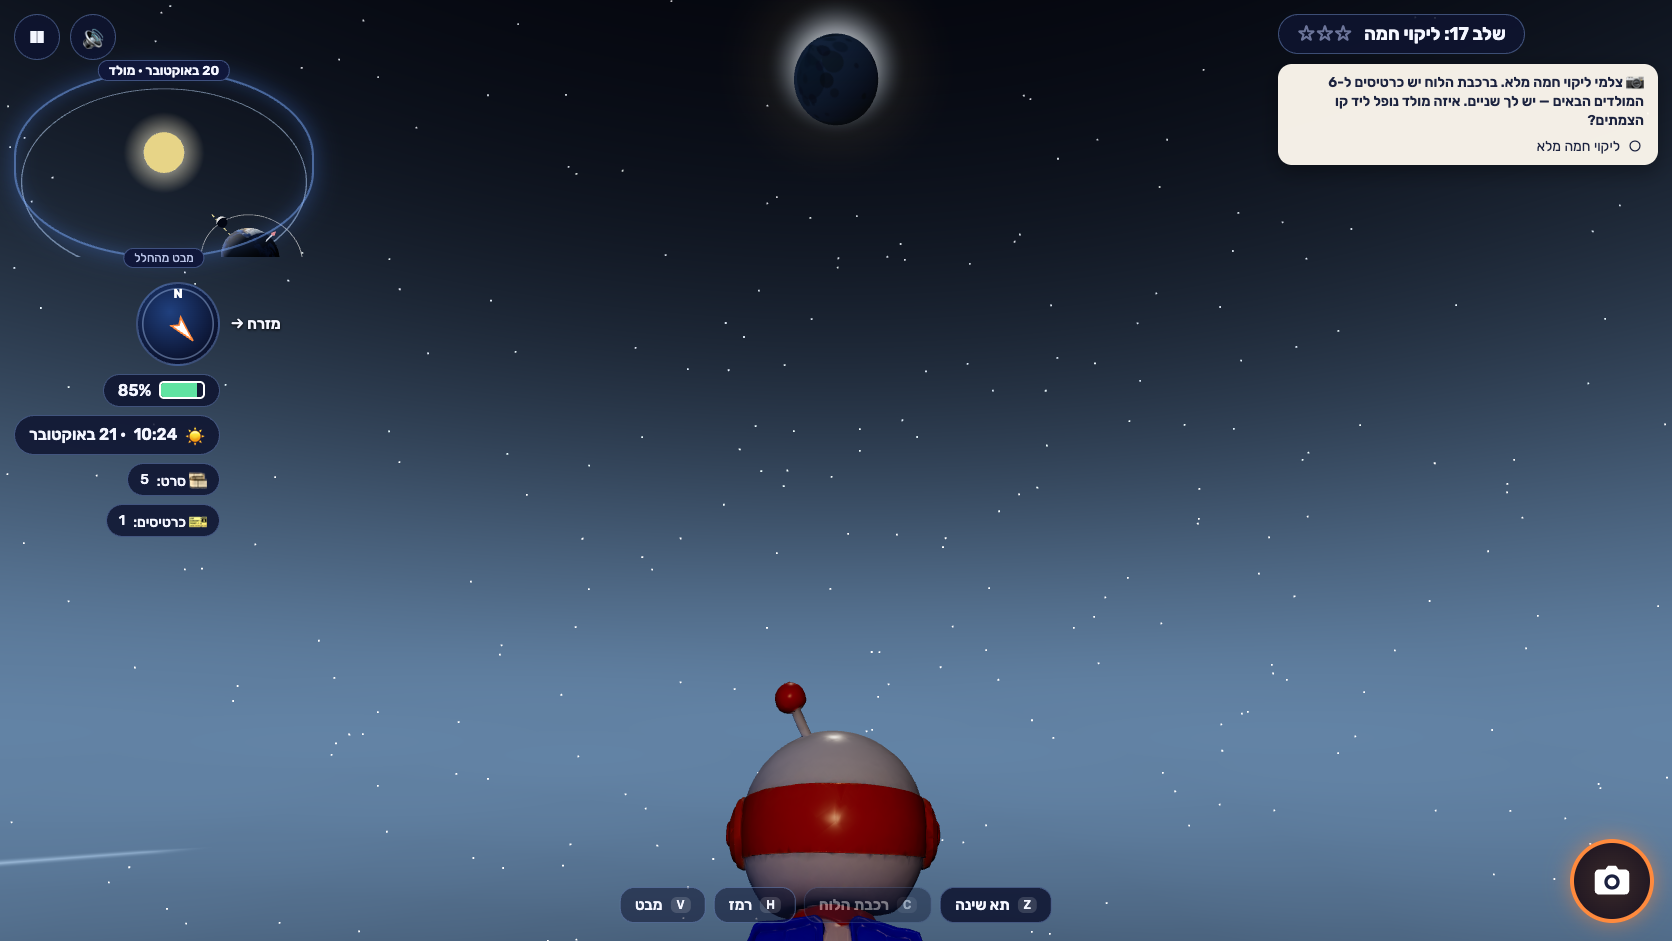
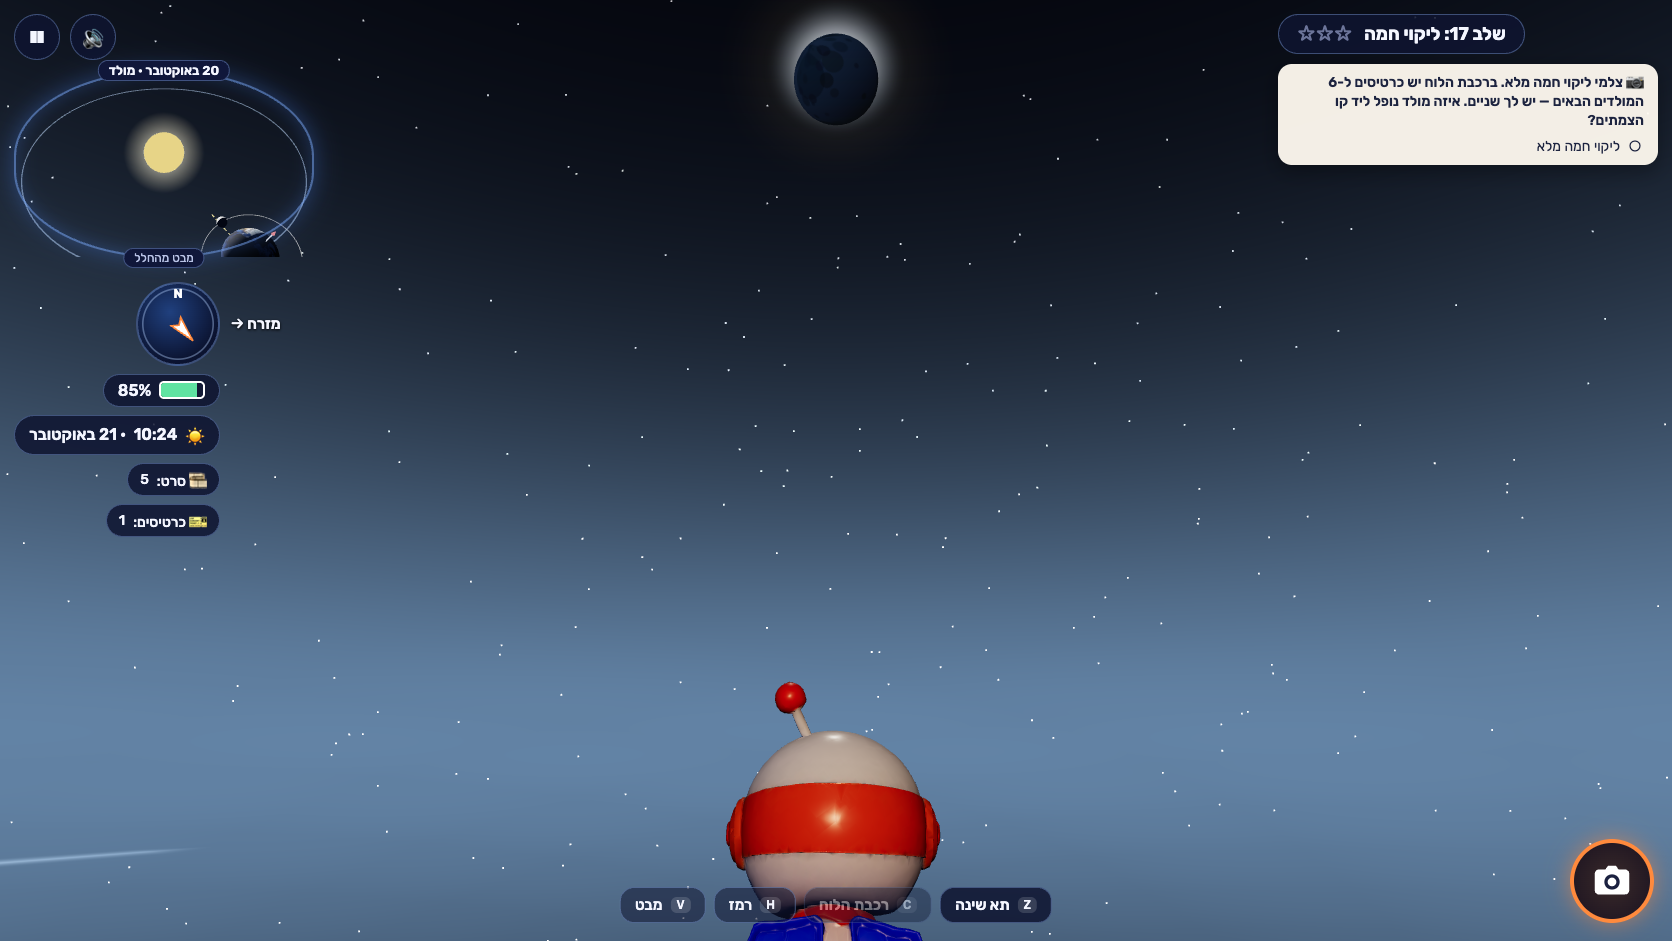
Fill light for a backlit Tzila; tutorial bubble yields to panels

Changed region(s): [[0.4354, 0.7088, 0.5598, 1.0]]

diff --git a/src/scene/world.ts b/src/scene/world.ts
@@ -161,7 +161,8 @@ export class World {
   planet: Planet;
   private sunLight = new THREE.DirectionalLight(0xfff1dc, 2.6);
   private fill = new THREE.HemisphereLight(0x8fb6ff, 0x1a1030, 0.35);
-  private headlamp = new THREE.PointLight(0xffd7a8, 1.6, 6, 1.5);
+  // camera-side fill so a backlit Tzila at dawn still reads as white and coral, not a silhouette
+  private headlamp = new THREE.PointLight(0xffd7a8, 3.4, 9, 1.2);
   private sunSprite: THREE.Sprite;
   private corona: THREE.Sprite;
   private moon: THREE.Mesh;

diff --git a/src/ui/hud.ts b/src/ui/hud.ts
@@ -212,7 +212,8 @@ export class Hud {
   }
 
   setTutorial(line: string | null) {
-    this.els.bubble.hidden = !line;
+    // never over an open panel, where it would cover Tzila
+    this.els.bubble.hidden = !line || this.modalOpen();
     if (line) this.els.bubbletxt.innerHTML = line.replace(/\(([^)]*[A-Za-z↑][^)]*)\)/g, (_m, k) => `(${b(k)})`);
   }
 

diff --git a/docs/VISUAL_REVIEW.md b/docs/VISUAL_REVIEW.md
@@ -34,11 +34,10 @@ Real frames are in `docs/visual-review/`, captured by `npm run shots` (`scripts/
 7. `1 כרטיסים` in the intro card now reads `כרטיס אחד`.
 8. **Snoring was audio only.** A `Z z z` now floats over Tzila when her battery dies and over city places while it is night there. The result card sits high, so she stays visible below it (03b).
 9. **Eclipse framing.** With totality about 50° up, the ground-level chase camera never showed the black Sun. Inside the shadow it now pitches up by about half the Sun's elevation (04).
+10. **Dawn silhouette and bubble.** A stronger camera-side fill keeps a backlit Tzila white and coral (01), and the tutorial bubble hides while a panel is open (07).
 
 ## Still different (honest gaps)
 
 - **Rendering richness.** The mockups are painterly, with dense props (Jerusalem rooftops, cat, telescope, snowy pines, station building, conductor). The game shows the planet, one landmark per place and Tzila. That is right for readability on a phone, but it is visibly simpler.
 - **Midnight-sun gap.** At 69°N on 21 June the midnight Sun is only about 2° up, so it sits just above the limb. That is physically right; the mockup's big gap is not.
-- **Tzila's lighting at dawn (01).** Backlit by a Sun just under the horizon, she is a dark silhouette. A soft rim light would help.
-- **Tutorial bubble** can overlap Tzila when a panel is open (07).
 - **World map (05).** The mockup is an illustrated four-world map; the game uses a four-column level list over the slowly orbiting planet. It works, but it is less charming.
